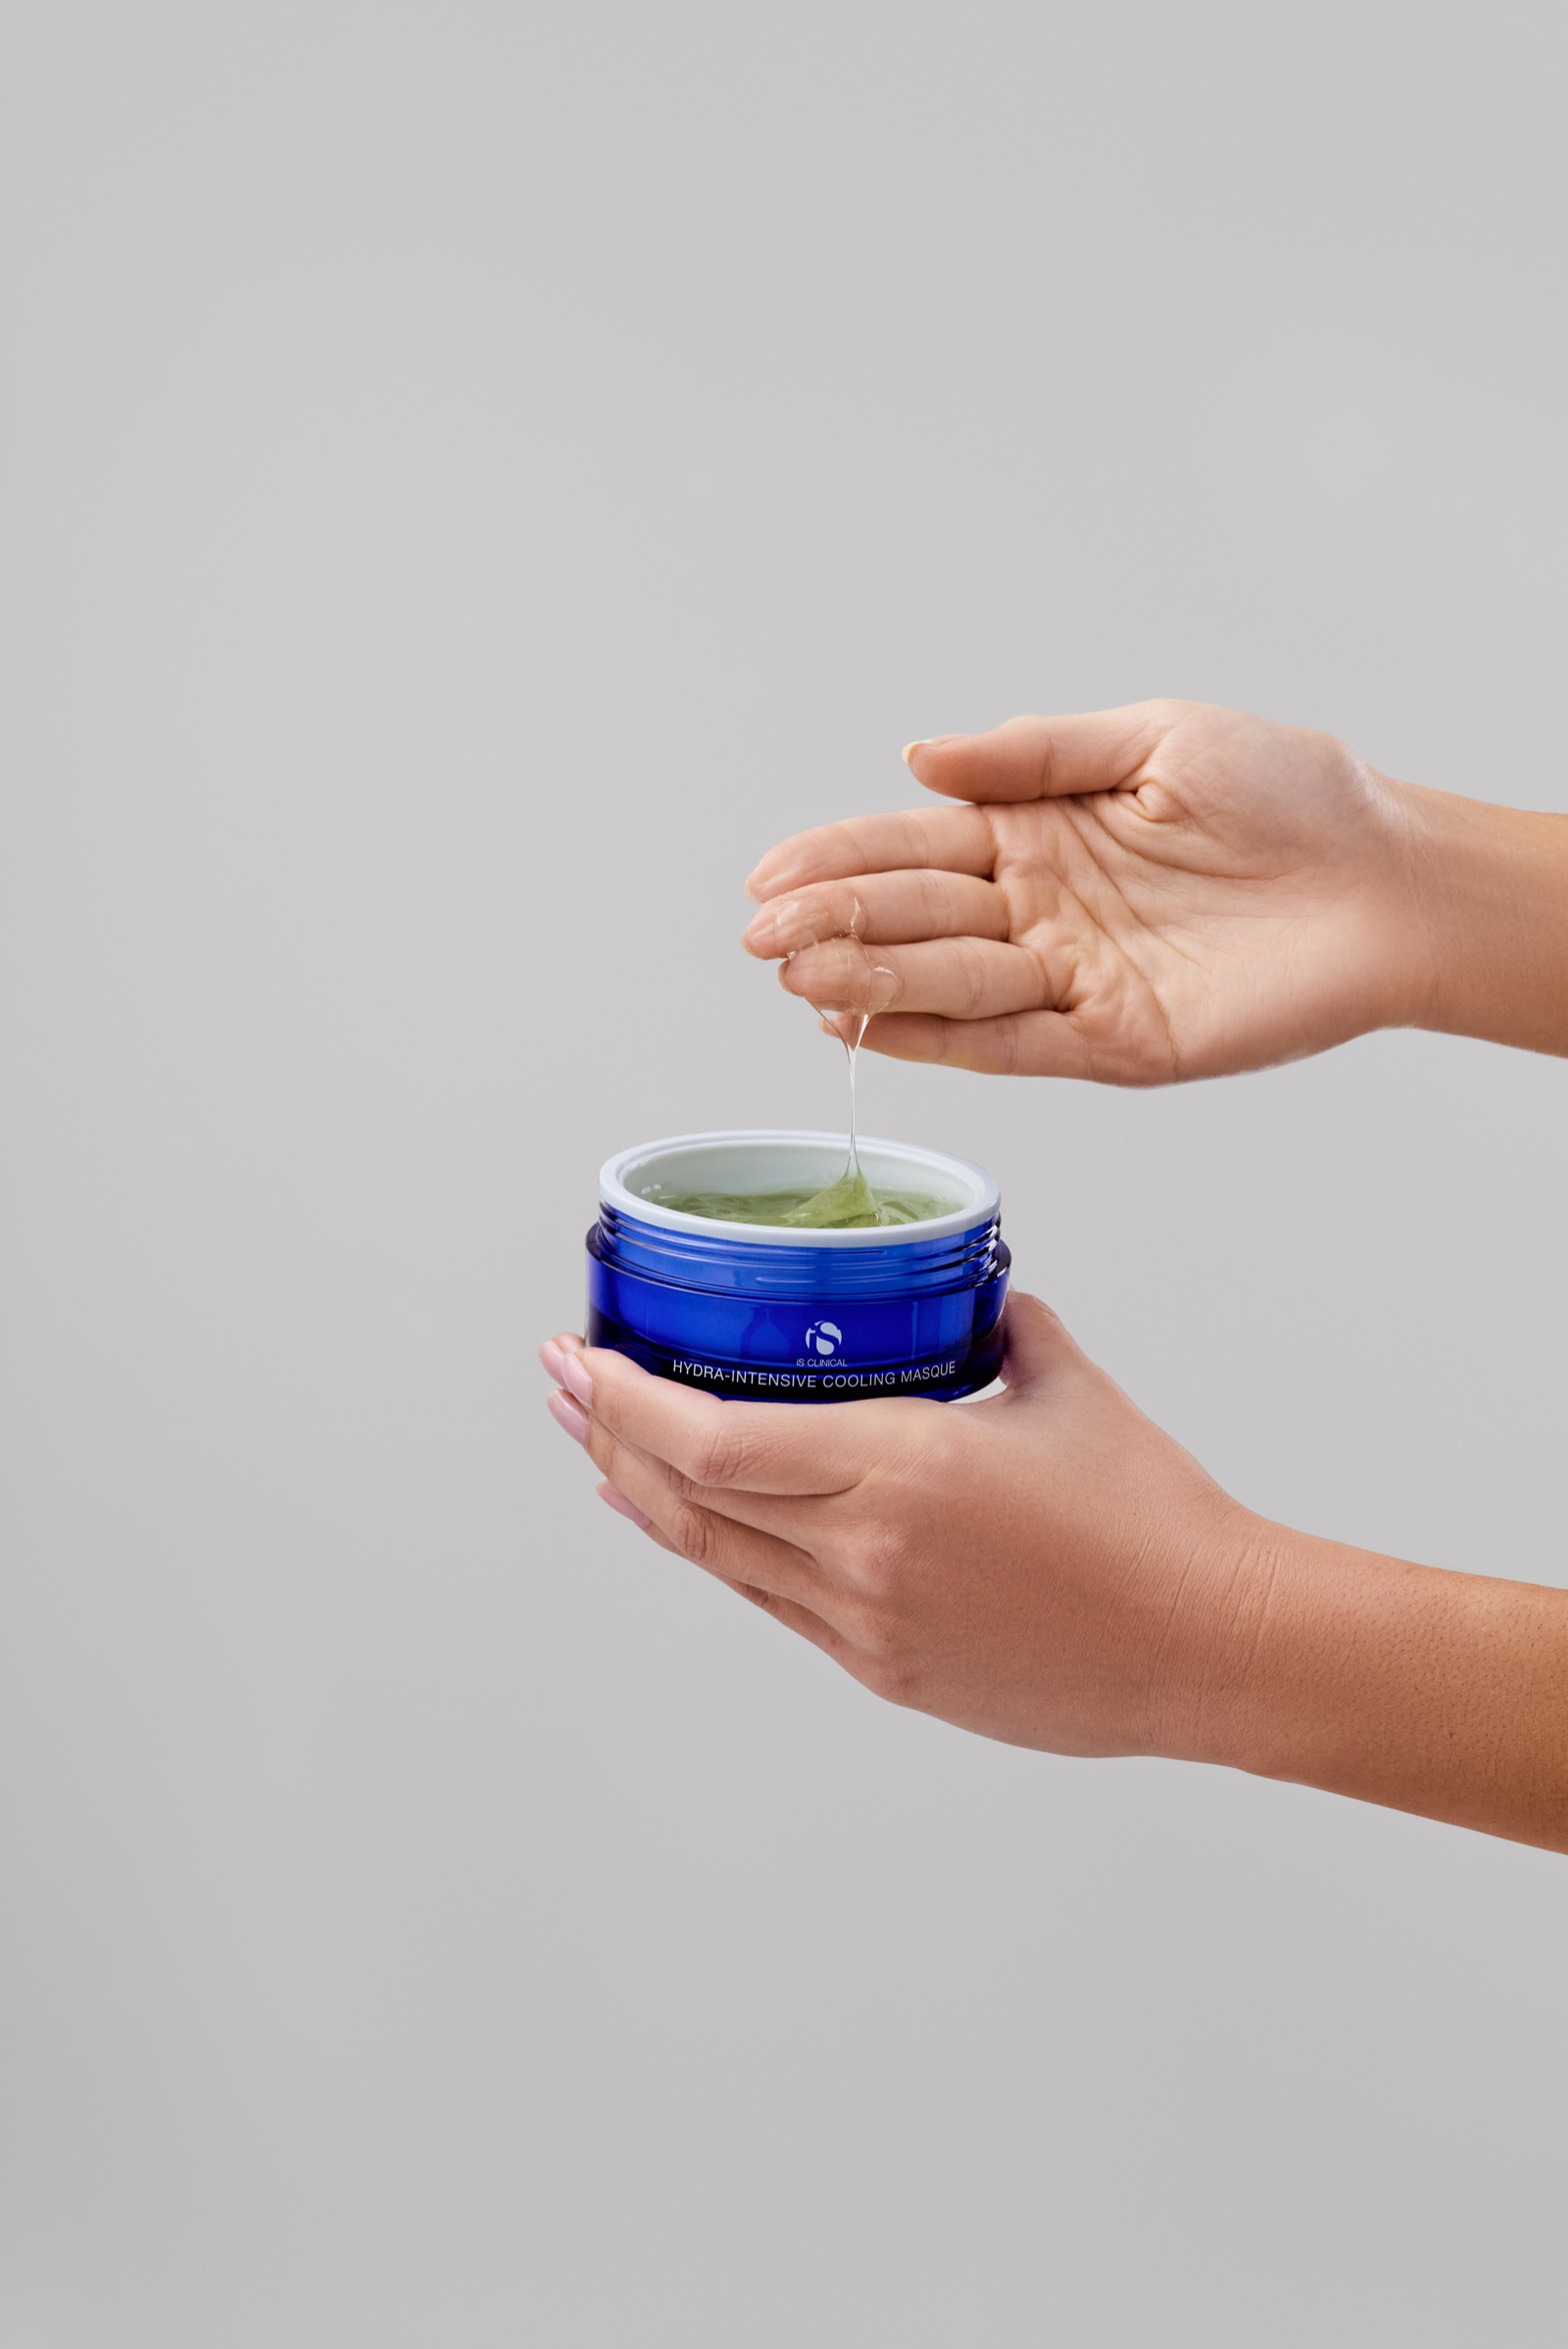
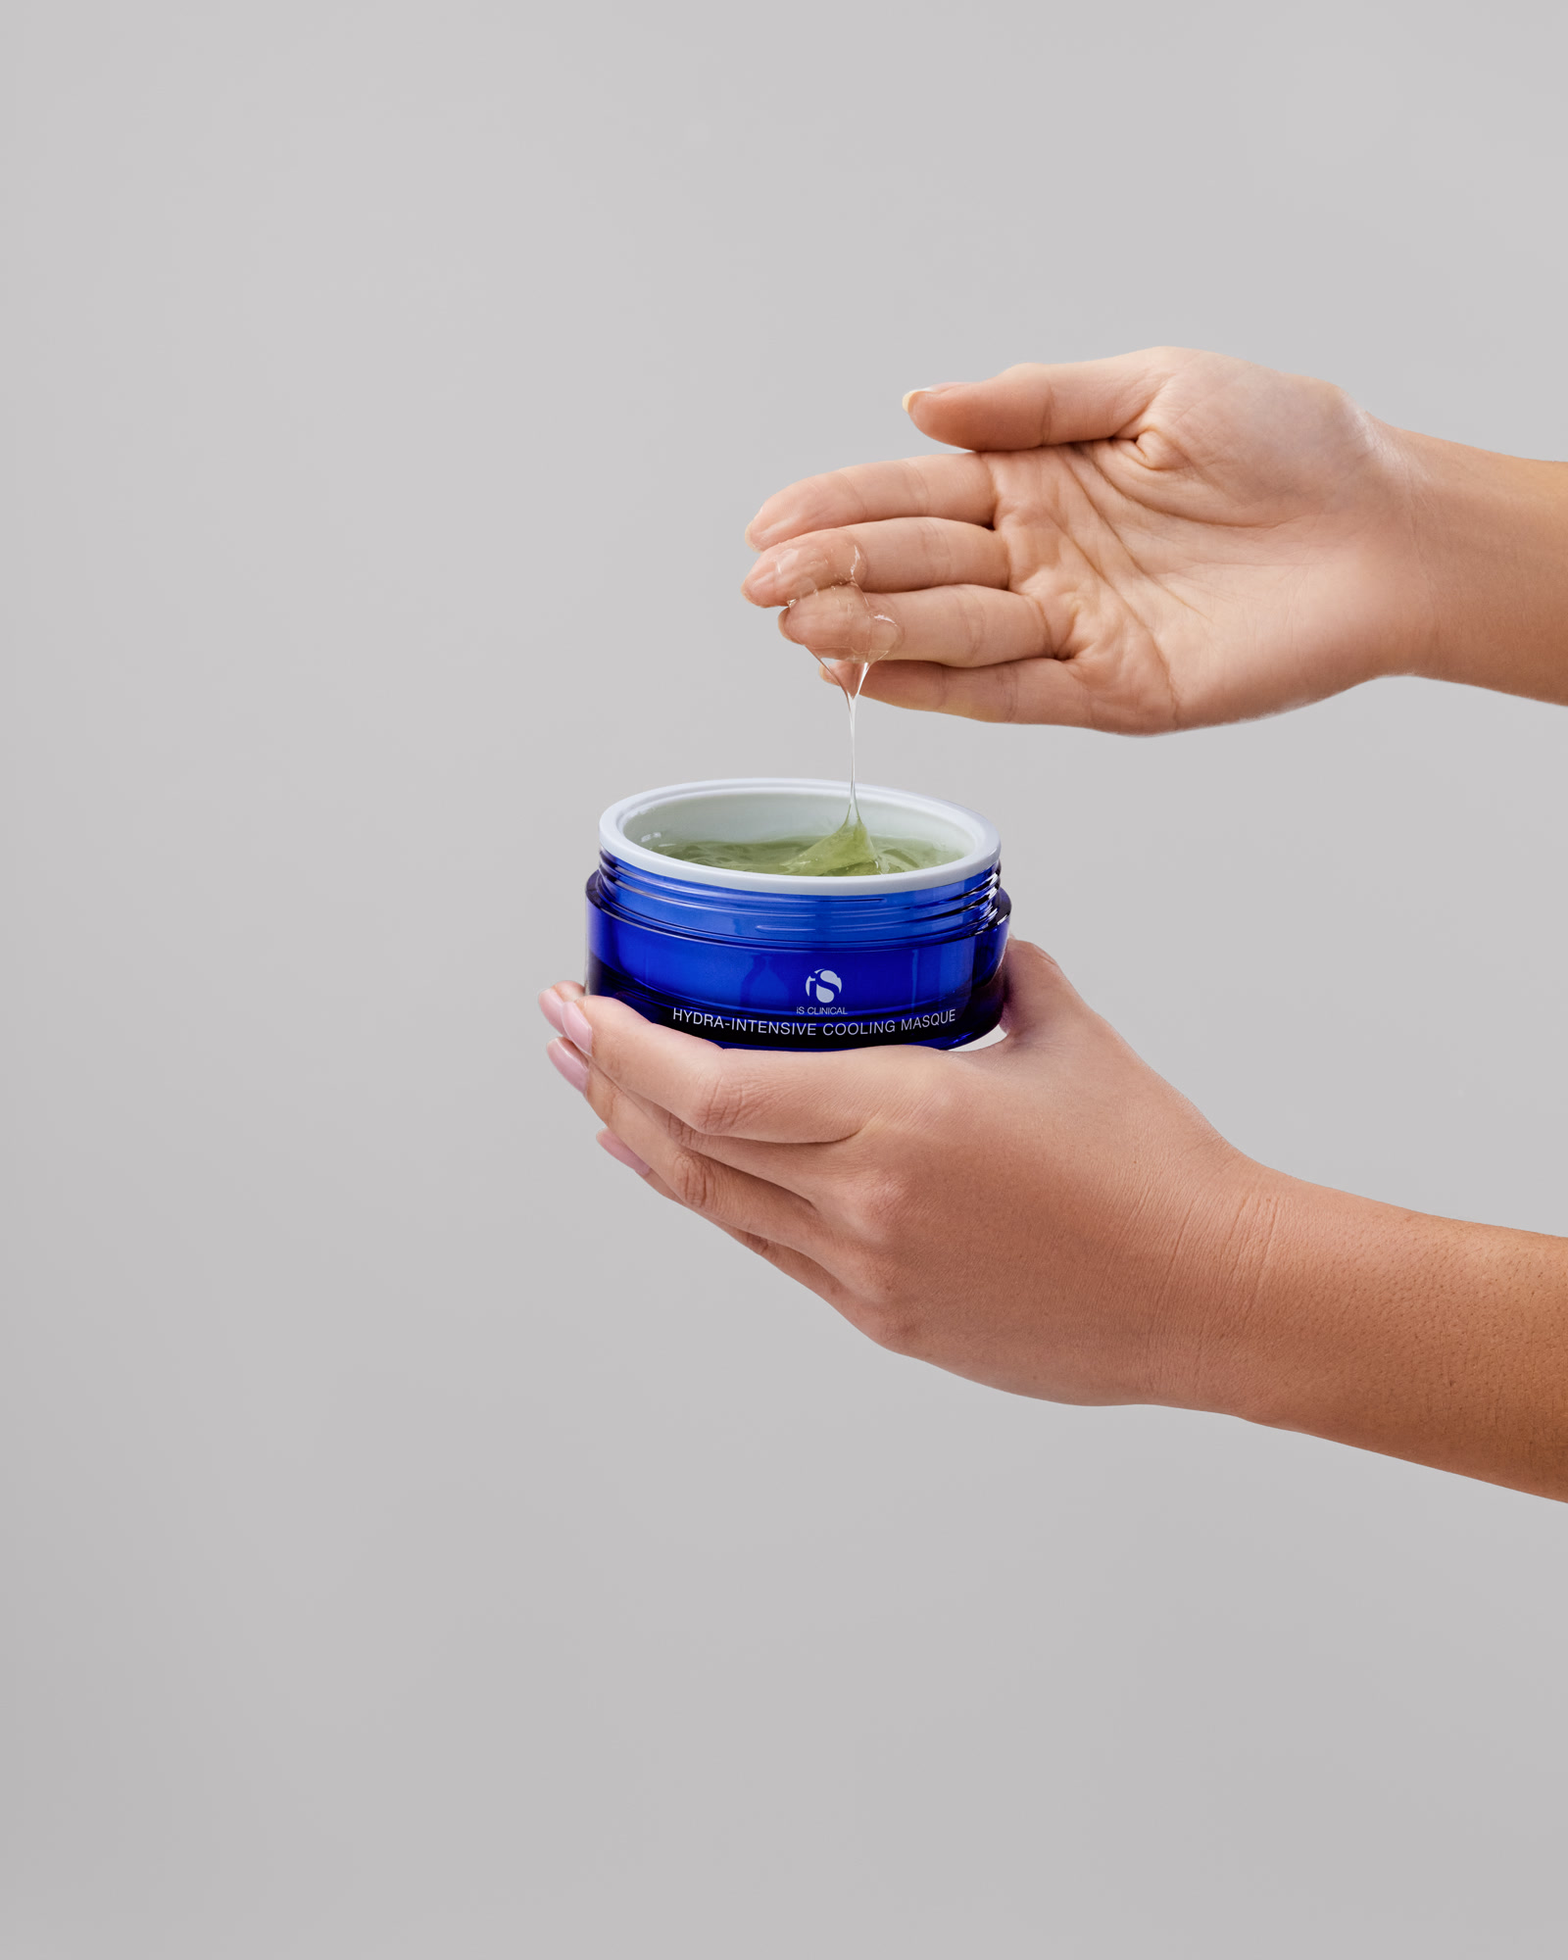
Trim product shots to two, crop spray square and masque 4:5

Changed region(s): [[0.3438, 0.155, 1.0, 0.806]]

diff --git a/photo.html b/photo.html
@@ -34,7 +34,7 @@
       <button class="ph"><img src="assets/img/photo/ph-55-800.jpg" srcset="assets/img/photo/ph-55-800.jpg 800w, assets/img/photo/ph-55-1600.jpg 1600w" sizes="(max-width: 767px) 50vw, 33vw" width="1600" height="1066" alt="Black and white studio portrait, laughing with an arm raised" loading="eager"></button>
       <button class="ph"><img src="assets/img/photo/ph-49-800.jpg" srcset="assets/img/photo/ph-49-800.jpg 800w, assets/img/photo/ph-49-1600.jpg 1152w" sizes="(max-width: 767px) 50vw, 33vw" width="1152" height="1152" alt="Earbuds at golden hour" loading="eager"></button>
       <button class="ph"><img src="assets/img/photo/ph-26-800.jpg" srcset="assets/img/photo/ph-26-800.jpg 800w, assets/img/photo/ph-26-1600.jpg 1600w" sizes="(max-width: 767px) 50vw, 33vw" width="1600" height="2133" alt="Pulling a book from the shelf" loading="eager"></button>
-      <button class="ph"><img src="assets/img/photo/ph-67-800.jpg" srcset="assets/img/photo/ph-67-800.jpg 800w, assets/img/photo/ph-67-1600.jpg 1600w" sizes="(max-width: 767px) 50vw, 33vw" width="1600" height="2397" alt="iS Clinical cooling masque, gel dripping from fingertips over the jar" loading="eager"></button>
+      <button class="ph"><img src="assets/img/photo/ph-67-800.jpg" srcset="assets/img/photo/ph-67-800.jpg 800w, assets/img/photo/ph-67-1600.jpg 1600w" sizes="(max-width: 767px) 50vw, 33vw" width="1600" height="2000" alt="iS Clinical cooling masque, gel dripping from fingertips over the jar" loading="eager"></button>
       <button class="ph"><img src="assets/img/photo/ph-34-800.jpg" srcset="assets/img/photo/ph-34-800.jpg 800w, assets/img/photo/ph-34-1600.jpg 1600w" sizes="(max-width: 767px) 50vw, 33vw" width="1600" height="1066" alt="Bare shoulders in soft light" loading="lazy"></button>
       <button class="ph"><img src="assets/img/photo/ph-25-800.jpg" srcset="assets/img/photo/ph-25-800.jpg 800w, assets/img/photo/ph-25-1600.jpg 1600w" sizes="(max-width: 767px) 50vw, 33vw" width="1600" height="1066" alt="Reading by the window" loading="lazy"></button>
       <button class="ph"><img src="assets/img/photo/ph-05-800.jpg" srcset="assets/img/photo/ph-05-800.jpg 800w, assets/img/photo/ph-05-1600.jpg 1600w" sizes="(max-width: 767px) 50vw, 33vw" width="1600" height="2400" alt="Rainbow light across freckles" loading="lazy"></button>
@@ -51,7 +51,6 @@
       <button class="ph"><img src="assets/img/photo/ph-20-800.jpg" srcset="assets/img/photo/ph-20-800.jpg 800w, assets/img/photo/ph-20-1600.jpg 1600w" sizes="(max-width: 767px) 50vw, 33vw" width="1600" height="2240" alt="Beach portrait on film" loading="lazy"></button>
       <button class="ph"><img src="assets/img/photo/ph-19-800.jpg" srcset="assets/img/photo/ph-19-800.jpg 800w, assets/img/photo/ph-19-1600.jpg 1600w" sizes="(max-width: 767px) 50vw, 33vw" width="1600" height="2240" alt="Portrait in striped window light" loading="lazy"></button>
       <button class="ph"><img src="assets/img/photo/ph-53-800.jpg" srcset="assets/img/photo/ph-53-800.jpg 800w, assets/img/photo/ph-53-1600.jpg 1600w" sizes="(max-width: 767px) 50vw, 33vw" width="1600" height="1067" alt="Barbershop in sunlight" loading="lazy"></button>
-      <button class="ph"><img src="assets/img/photo/ph-64-800.jpg" srcset="assets/img/photo/ph-64-800.jpg 800w, assets/img/photo/ph-64-1600.jpg 1600w" sizes="(max-width: 767px) 50vw, 33vw" width="1600" height="1067" alt="iS Clinical Active Serum, dropper held above the blue bottle" loading="lazy"></button>
       <button class="ph"><img src="assets/img/photo/ph-18-800.jpg" srcset="assets/img/photo/ph-18-800.jpg 800w, assets/img/photo/ph-18-1600.jpg 1600w" sizes="(max-width: 767px) 50vw, 33vw" width="1600" height="1280" alt="Floating in the pool from above" loading="lazy"></button>
       <button class="ph"><img src="assets/img/photo/ph-40-800.jpg" srcset="assets/img/photo/ph-40-800.jpg 800w, assets/img/photo/ph-40-1600.jpg 1600w" sizes="(max-width: 767px) 50vw, 33vw" width="1600" height="2400" alt="Embrace in warm light" loading="lazy"></button>
       <button class="ph"><img src="assets/img/photo/ph-17-800.jpg" srcset="assets/img/photo/ph-17-800.jpg 800w, assets/img/photo/ph-17-1600.jpg 1600w" sizes="(max-width: 767px) 50vw, 33vw" width="1600" height="1060" alt="Feet in the surf" loading="lazy"></button>
@@ -63,7 +62,7 @@
       <button class="ph"><img src="assets/img/photo/ph-50-800.jpg" srcset="assets/img/photo/ph-50-800.jpg 800w, assets/img/photo/ph-50-1600.jpg 1536w" sizes="(max-width: 767px) 50vw, 33vw" width="1536" height="1152" alt="Jewelry on denim" loading="lazy"></button>
       <button class="ph"><img src="assets/img/photo/ph-14-800.jpg" srcset="assets/img/photo/ph-14-800.jpg 800w, assets/img/photo/ph-14-1600.jpg 1600w" sizes="(max-width: 767px) 50vw, 33vw" width="1600" height="976" alt="Neon lights at night" loading="lazy"></button>
       <button class="ph"><img src="assets/img/photo/ph-31-800.jpg" srcset="assets/img/photo/ph-31-800.jpg 800w, assets/img/photo/ph-31-1600.jpg 1600w" sizes="(max-width: 767px) 50vw, 33vw" width="1600" height="2400" alt="Looking skyward" loading="lazy"></button>
-      <button class="ph"><img src="assets/img/photo/ph-66-800.jpg" srcset="assets/img/photo/ph-66-800.jpg 800w, assets/img/photo/ph-66-1600.jpg 1600w" sizes="(max-width: 767px) 50vw, 33vw" width="1600" height="1067" alt="iS Clinical body serum spray misting in hand" loading="lazy"></button>
+      <button class="ph"><img src="assets/img/photo/ph-66-800.jpg" srcset="assets/img/photo/ph-66-800.jpg 800w, assets/img/photo/ph-66-1600.jpg 1600w" sizes="(max-width: 767px) 50vw, 33vw" width="1600" height="1600" alt="iS Clinical body serum spray misting in hand" loading="lazy"></button>
       <button class="ph"><img src="assets/img/photo/ph-13-800.jpg" srcset="assets/img/photo/ph-13-800.jpg 800w, assets/img/photo/ph-13-1600.jpg 1600w" sizes="(max-width: 767px) 50vw, 33vw" width="1600" height="1060" alt="Windblown profile at the shore" loading="lazy"></button>
       <button class="ph"><img src="assets/img/photo/ph-37-800.jpg" srcset="assets/img/photo/ph-37-800.jpg 800w, assets/img/photo/ph-37-1600.jpg 1600w" sizes="(max-width: 767px) 50vw, 33vw" width="1600" height="1067" alt="Studying at home" loading="lazy"></button>
       <button class="ph"><img src="assets/img/photo/ph-39-800.jpg" srcset="assets/img/photo/ph-39-800.jpg 800w, assets/img/photo/ph-39-1600.jpg 1600w" sizes="(max-width: 767px) 50vw, 33vw" width="1600" height="2400" alt="Smile among flowers" loading="lazy"></button>
@@ -75,7 +74,6 @@
       <button class="ph"><img src="assets/img/photo/ph-11-800.jpg" srcset="assets/img/photo/ph-11-800.jpg 800w, assets/img/photo/ph-11-1600.jpg 1600w" sizes="(max-width: 767px) 50vw, 33vw" width="1600" height="2400" alt="Portrait with pink flowers" loading="lazy"></button>
       <button class="ph"><img src="assets/img/photo/ph-46-800.jpg" srcset="assets/img/photo/ph-46-800.jpg 800w, assets/img/photo/ph-46-1600.jpg 1600w" sizes="(max-width: 767px) 50vw, 33vw" width="1600" height="2133" alt="Lipstick and cherries" loading="lazy"></button>
       <button class="ph"><img src="assets/img/photo/ph-63-800.jpg" srcset="assets/img/photo/ph-63-800.jpg 800w, assets/img/photo/ph-63-1600.jpg 1600w" sizes="(max-width: 767px) 50vw, 33vw" width="1600" height="1200" alt="Black and white beach texture, rock formations and a vein of pebbles" loading="lazy"></button>
-      <button class="ph"><img src="assets/img/photo/ph-65-800.jpg" srcset="assets/img/photo/ph-65-800.jpg 800w, assets/img/photo/ph-65-1600.jpg 1600w" sizes="(max-width: 767px) 50vw, 33vw" width="1600" height="1067" alt="iS Clinical eye serum, dropper above the amber bottle" loading="lazy"></button>
       <button class="ph"><img src="assets/img/photo/ph-07-800.jpg" srcset="assets/img/photo/ph-07-800.jpg 800w, assets/img/photo/ph-07-1600.jpg 1600w" sizes="(max-width: 767px) 50vw, 33vw" width="1600" height="1060" alt="White fabric in the sea breeze" loading="lazy"></button>
       <button class="ph"><img src="assets/img/photo/ph-27-800.jpg" srcset="assets/img/photo/ph-27-800.jpg 800w, assets/img/photo/ph-27-1600.jpg 1440w" sizes="(max-width: 767px) 50vw, 33vw" width="1440" height="1080" alt="Balcony over the city" loading="lazy"></button>
       <button class="ph"><img src="assets/img/photo/ph-60-800.jpg" srcset="assets/img/photo/ph-60-800.jpg 800w, assets/img/photo/ph-60-1600.jpg 1600w" sizes="(max-width: 767px) 50vw, 33vw" width="1600" height="1567" alt="Black and white portrait, eyes closed, hand raised to her ear" loading="lazy"></button>
